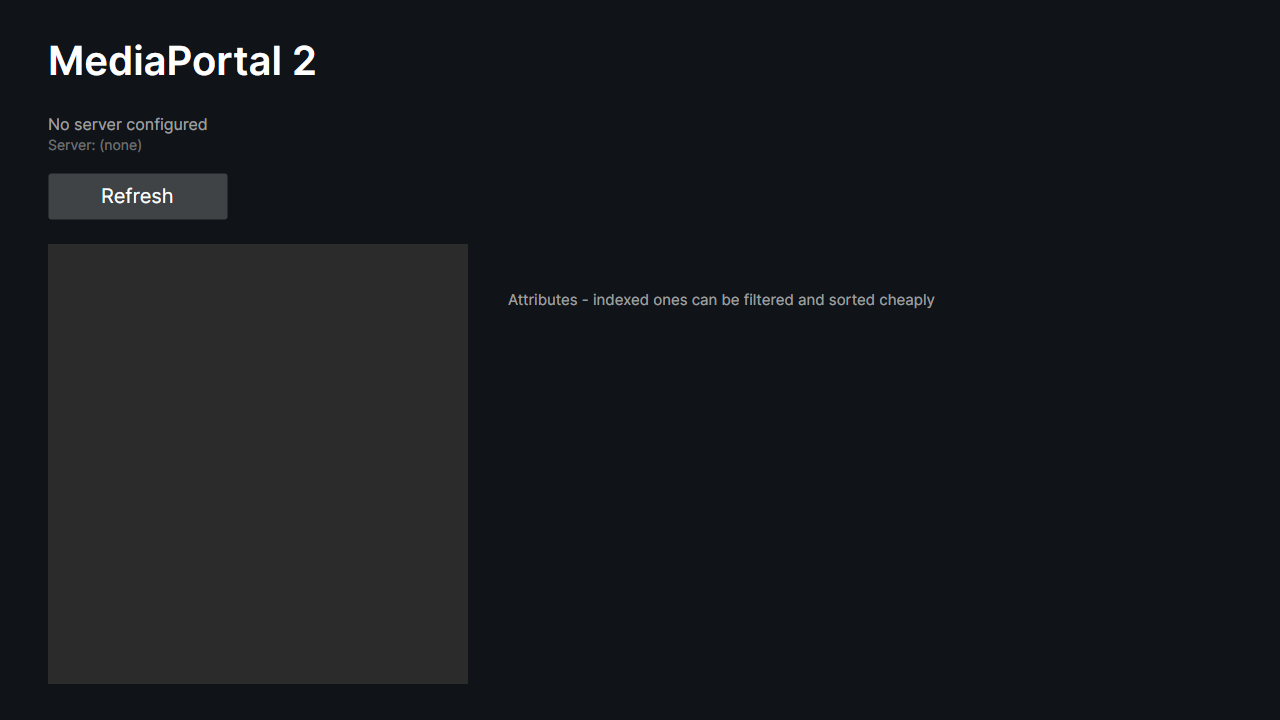
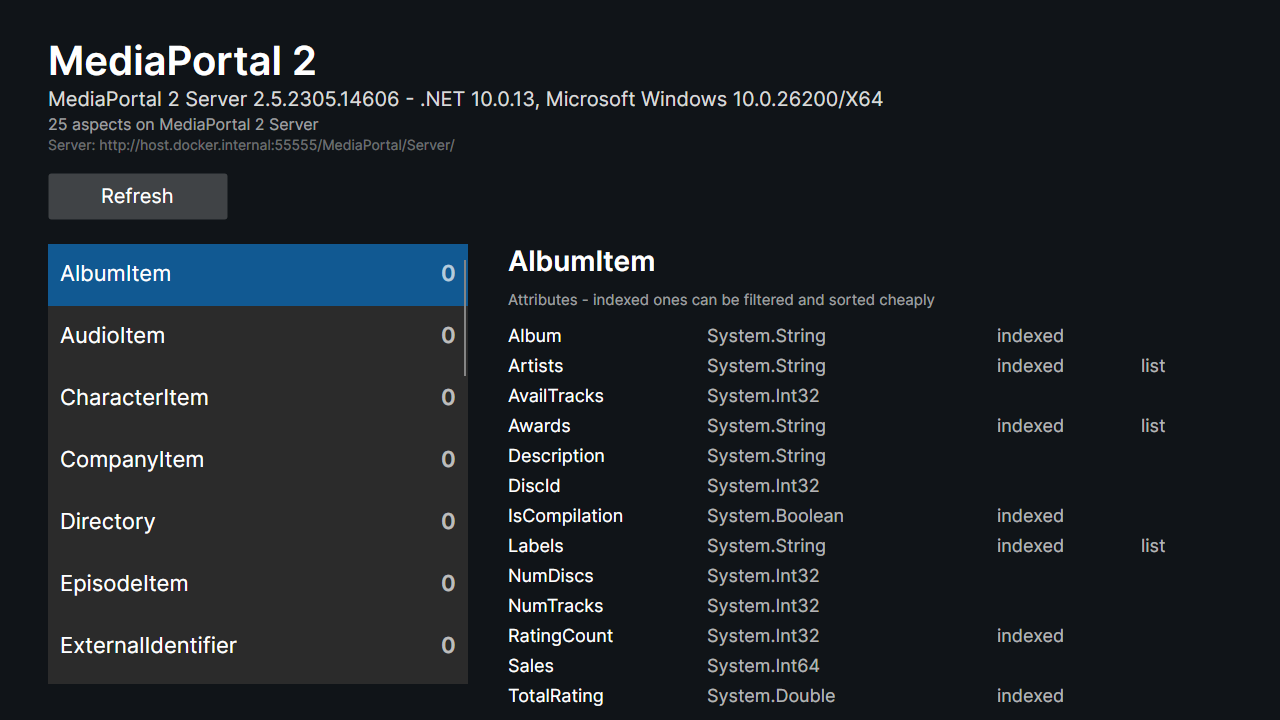
The container's screenshot shows the data, not the empty screen
The committed Linux frame was honest but weak: the image has no server, so `Frontend.RenderProbe` drew the
screen's own "no server" state there. `test-frontend-linux.ps1 -ServeFromHost` now starts
`MP2-Server-Headless` on the host, waits until it really serves aspects, and passes
`MP2_SERVER=http://host.docker.internal:55555/MediaPortal/Server` into the container. Measured from inside
the image, that name resolves and answers `HTTP/1.1 200 OK` with `Server: Microsoft-HTTPAPI/2.0`;
`172.17.0.1` does not connect at all. The frame Linux writes is now the same screen Windows writes:

    content:  populated from http://host.docker.internal:55555/MediaPortal/Server/
    status:   25 aspects on MediaPortal 2 Server, 25 aspect row(s)
    pixels:   921600 (Rgba8888), 3872 distinct colours, 236330 differing from the background,
              66090 high-contrast edges, mean luminance 32

and `FRONTEND LINUX OK: 34 tests ran headless on Linux x86_64, populated from ...` says which frame it is.

Two rules keep the screenshot from becoming decoration. A populated read that produced nothing fails the
run: exit `4` when a server was asked for and no aspects arrived, because an error screen drawn against a
URL proves nothing and exit 0 would leave the gate no wiser. And the `CMD` refuses any run whose output
does not contain `aspects on`, while the host script refuses one that does not report where it read from -
[…]

diff --git a/MediaPortal/Tests/Frontend.RenderProbe/Program.cs b/MediaPortal/Tests/Frontend.RenderProbe/Program.cs
@@ -61,7 +61,7 @@ namespace FrontendProbe
     /// <summary>
     /// Runs the probe. Exit codes: <c>0</c> a frame with real content was rendered and written, <c>1</c> the
     /// render produced nothing worth looking at, <c>2</c> the arguments were wrong, <c>3</c> the image could not
-    /// be written or is not a PNG.
+    /// be written or is not a PNG, <c>4</c> a populated screen was asked for and the server answered no aspects.
     /// </summary>
     public static int Main(string[] args)
     {
@@ -196,12 +196,20 @@ namespace FrontendProbe
 
       if (online)
       {
-        // The window reads the server when it opens - the same command the refresh button runs - so the probe
-        // does not start a second read of its own. Firing one here is what crashed this probe's first run: two
-        // runs were then in flight deliberately, and surviving that is the view model's job, not something to
-        // work around here. Pumping is what a running application does while it waits.
+        // The window reads the server when it opens - the same command the button runs - so the probe does not
+        // start a second read of its own. Firing one here is what crashed this probe's first run: two runs were
+        // then in flight deliberately, and surviving that is the view model's job, not something to work around
+        // here. Pumping is what a running application does while it waits.
+        //
+        // Asking for a populated screen and getting none is a failure, not a note. A frame of an error screen
+        // drawn against a URL is worthless as evidence, and a gate that received exit 0 from it would have no way
+        // of knowing - which is why this returns 1 rather than rendering on.
         if (!PumpUntil(() => viewModel.Aspects.Count > 0, TimeSpan.FromSeconds(30)))
-          Console.WriteLine("note:     the server answered no aspects; the empty or error state is what is rendered.");
+        {
+          Console.WriteLine("FAILED:   a populated screen was asked for ('" + url + "'), but the server answered no"
+              + " aspects. Status says: '" + viewModel.Status + "'.");
+          return 4;
+        }
       }
 
       Console.WriteLine("status:   " + viewModel.Status + ", " + viewModel.Aspects.Count + " aspect row(s)");

diff --git a/docs/multiplatform/ROADMAP.md b/docs/multiplatform/ROADMAP.md
@@ -37,7 +37,7 @@ Verified 2026-10-18 with `build.ps1 -Solution Server,Client -Ratchet`, `tests.ps
 | `CA1416` call sites, Windows vs Linux | **0** on both hosts, floor 0 (was 196 at the retarget) - the 107 that remained were all in `-windows` assemblies that had lost their platform declaration; see "the floor went to zero" below | build log, `warnings.ps1` on both logs |
 | Unit tests, Windows | **5/5 suites, 405 passed**, 0 failed, 0 skipped (Canary.Portable 29, Tests.Server 184, Tests.Client 90, **Tests.Frontend 34**, Setup\Tests 68); a suite whose assembly predates its own sources reports STALE instead of running the old binary | `tests.ps1` |
 | Unit tests, Linux (canary) | 31 executed, 0 failed (1 skips: Windows-only), incl. live IPC round trips and XDG autostart | `test-canary-linux.ps1` |
-| Unit tests, Linux (**front end**) | **34 executed, 0 failed** - the real `HomeWindow.axaml`, Fluent theme, bindings, D-pad handler and HTTP client, headless with no display in the image; the same image then draws the screen through Skia (`1310 distinct colours` of a `1280x720` frame) and writes the PNG out | `test-frontend-linux.ps1` |
+| Unit tests, Linux (**front end**) | **34 executed, 0 failed** - the real `HomeWindow.axaml`, Fluent theme, bindings, D-pad handler and HTTP client, headless with no display in the image; the same image then draws the screen through Skia and writes the PNG out, populated from the host's server through `host.docker.internal` (`3872 distinct colours` of a `1280x720` frame) | `test-frontend-linux.ps1 -ServeFromHost` |
 | Server actually **runs** | **yes on Windows and on Linux** as a headless process. Windows: reaches the Running state, creates the SQLite store, answers UPnP discovery over the network, exits 0 with an error-free log. Linux: reaches the same Running state with 0 `FATAL`, 0 `ERROR` and one `WARN` - the documented note that a container has no FUSE driver. Android is still unmeasured | `run-server-check.ps1`, `test-server-upnp.ps1`, `test-server-run-linux.ps1` |
 | Server **answers HTTP** | **yes on both hosts**, measured with the same probe: `GET /MediaPortal/Server/health` answers `200` with the server's version and the path it was called with - `pathBase=/MediaPortal/Server`, `path=/health` on Windows *and* in the container, because the shared listener now hands requests over in exactly the shape http.sys uses. The gate checks that text, not just the status code | `run-server-check.ps1 -ProbeUrl`, item **l** below |
 | Server **has an HTTP API** | **three endpoints, on both hosts**, in an assembly of its own (`MediaPortal.Server.Api`): `GET /MediaPortal/Server/api/serverinfo`, `GET api/library/aspects` and `GET api/library/count?aspect=…`. They are discovered MVC controllers (the first in this tree) that read MP2's own settings and media-library services on a request thread, and the gates on Windows and in the container require their content, not just a `200`. A library that is absent or still starting is answered with `503` and a reason rather than an empty answer or an internal error. They are unauthenticated because the token endpoint that would authenticate them is still .NET Framework only - which is why they serve schema and no household data | `run-server-check.ps1 -ProbeUrl`, items **m**, **o** and **p** below |
@@ -899,8 +899,8 @@ immediately on `1`, and it also runs the front end against a port nobody listens
 | `tests.ps1` | `Tests.Frontend` added to the default set (see the scoreboard) |
 | `test-frontend-check.ps1` | `FRONTEND CHECK OK - the front end read a running server (attempt 1) and refused a dead one.`, and while that server is still up it renders the populated screen with Skia: `pixels: 921600 (Rgba8888), 2592 distinct colours, 234687 differing from the background, 65736 high-contrast edges, mean luminance 31` |
 | `Frontend.RenderProbe` (Windows, populated) | `PROBE OK: the front end drew 921600 pixels of real content on Microsoft Windows 10.0.26200`, `status: 25 aspects on MediaPortal 2 Server, 25 aspect row(s)`, `home-windows.png` 107 757 bytes |
-| `Frontend.RenderProbe` (Linux container, offline) | `PROBE OK: the front end drew 921600 pixels of real content on Ubuntu 24.04.5 LTS`, `home-linux.png` 20 030 bytes - the container has no server, so what it proves is the render path and the font path, not the data path |
-| `test-frontend-linux.ps1` | `Passed! - Failed: 0, Passed: 34, Skipped: 0, Total: 34, Duration: 2 s`, then `FRONTEND LINUX OK: 34 tests ran headless on Linux x86_64, screenshot in /out/home-linux.png` - on `Linux 6.6.87.2-microsoft-standard-WSL2 x86_64, dotnet 10.0.402`, with no display in the image and no `-p:EnableWindowsTargeting` passed |
+| `Frontend.RenderProbe` (Linux container, `-ServeFromHost`) | `PROBE OK: the front end drew 921600 pixels of real content on Ubuntu 24.04.5 LTS`, `status: 25 aspects on MediaPortal 2 Server, 25 aspect row(s)`, `3872 distinct colours`, `home-linux.png` 119 642 bytes - the container read the Windows host's server through `host.docker.internal`, measured answering `HTTP/1.1 200 OK` / `Server: Microsoft-HTTPAPI/2.0` from inside the image |
+| `test-frontend-linux.ps1` | `Passed! - Failed: 0, Passed: 34, Skipped: 0, Total: 34, Duration: 2 s`, then `FRONTEND LINUX OK: 34 tests ran headless on Linux x86_64, populated from http://host.docker.internal:55555/MediaPortal/Server screenshot in /out/home-linux.png` - on `Linux 6.6.87.2-microsoft-standard-WSL2 x86_64, dotnet 10.0.402`, with no display in the image and no `-p:EnableWindowsTargeting` passed |
 
 Two things about that gate are worth stating because they were not obvious when the script was written. It asserts
 the *shape* of the answer (`pathBase=/MediaPortal/Server`, `library:`, `aspects`) and never a count: this run
@@ -939,13 +939,23 @@ frame:    1280, 720 at 96, 96, implementation Avalonia.Media.Imaging.WriteableBi
 pixels:   921600 (Rgba8888), 2592 distinct colours, 234687 differing from the background, 65736 high-contrast edges, mean luminance 31
 ```
 
-It runs in two gates. `test-frontend-check.ps1` runs it **while its own server is still up**, so the frame is the
-populated screen - `25 aspects`, 2592 distinct colours, 65 736 high-contrast edges, i.e. rows of text, not a
-gradient. `Dockerfile.frontend` runs it offline (the container has no server) and mounts the result back onto the
-host, which is what produced `docs\multiplatform\screenshots\home-linux-skia.png`. Both frames are committed next
-to this document: `home-windows-skia.png` (populated, 107 757 bytes) and `home-linux-skia.png` (the offline screen,
-20 030 bytes). Whether the screen looks *right* is a different question and stays with the user; the probe's job is
-only to prove that real pixels come out, on both platforms, unattended.
+It runs in two gates, and both render the *populated* screen. `test-frontend-check.ps1` runs it **while its own
+server is still up**: `25 aspects`, 2592 distinct colours, 65 736 high-contrast edges, i.e. rows of text, not a
+gradient. `test-frontend-linux.ps1 -ServeFromHost` starts `MP2-Server-Headless` on the Windows host, waits until it
+really serves aspects, and tells the container `MP2_SERVER=http://host.docker.internal:55555/MediaPortal/Server`;
+measured from inside the image, `host.docker.internal` resolves and the server answers `HTTP/1.1 200 OK` with
+`Server: Microsoft-HTTPAPI/2.0`, while `172.17.0.1` does not connect at all. The frame the container writes is then
+the same screen, drawn by Linux: `25 aspects on MediaPortal 2 Server`, **3872 distinct colours**, 119 642 bytes of
+PNG. Both frames are committed next to this document - `home-windows-skia.png` (107 757 bytes) and
+`home-linux-skia.png` (119 642 bytes). Without `-ServeFromHost` the image still renders, and the OK line then says
+plainly that the frame is the screen's own "no server" state.
+
+Whether the screen looks *right* is a different question and stays with the user. The probe's job is only to prove
+that real pixels come out, on both platforms, unattended - and that it cannot lie, `--server`/`MP2_SERVER` now
+exits **4** when a populated screen was asked for and the server answered no aspects: an error screen drawn against
+a URL is worthless as evidence, and exit 0 for it would leave a gate no wiser. The image additionally refuses a run
+whose output never contains `aspects on`, so neither the container nor the host script can report the offline or
+the error picture as the data picture.
 
 What it found the first time it was run is the reason this section exists. The window's `Opened` handler runs the
 same command the refresh button runs, so the probe's render overlapped that first read - and the process died with
@@ -995,12 +1005,13 @@ rather than an intention - the gated build, the suite on Windows, the front end 
 server's screen rendered through Skia, and the suite plus a render in a Linux container. What is still ahead, in the
 order that keeps the risk where it can be seen:
 
-1. Pixels, not only layout - **done for "does it draw", open for "does it look right"**. `Frontend.RenderProbe`
-   renders through Skia and both frames are committed (`docs\multiplatform\screenshots\`), so the screenshot the
-   phase gate asks for by name exists; item **q** records what it found. Two gaps are honest to state: the
-   container's frame is the *offline* screen, because there is no server inside the image (pointing the probe at a
-   server on the host from inside the container is the next step for that frame), and nobody has judged whether the
-   screen looks good - that is the taste review reserved for the user. Android still has no measurement at all.
+1. Pixels, not only layout - **done, on both platforms, with data on screen**. `Frontend.RenderProbe` renders the
+   real window through Skia; the Windows frame comes from the server the check gate starts, and the container's
+   frame comes from the host's server through `host.docker.internal` (`-ServeFromHost`), so both committed frames
+   in `docs\multiplatform\screenshots\` show 25 aspect rows. The phase gate's named screenshot exists and is
+   populated; item **q** records what the render found. What is left of this item is not measurable here: whether
+   the screen looks *right* (the taste review reserved for the user), and Android, which still has no measurement
+   at all - including no Skia render, because nothing has drawn the front end on that platform yet.
 2. The OAuth token endpoint on .NET. Every endpoint that carries user data, and therefore every screen worth
    building next (browse, playlists, settings), is blocked on it - see item **m**.
 3. Bind the platform-neutral pieces of the old client's view models. Anything that imported

diff --git a/scripts/ci/README.md b/scripts/ci/README.md
@@ -22,7 +22,7 @@ does *not*, because those differences are how CI surprises happen.
 | `test-server-linux.ps1` | Runs that image (see "Compiling on Linux" below for the package-cache it needs). |
 | `test-frontend-check.ps1` | Starts the real server, runs the built front end with `--check` against it, then against a port nobody listens on: exit 0 plus the server's own answers, then exit 1 plus a readable message. While that server is up it also renders the screen with `Frontend.RenderProbe` (`-SkipRender`, `-RenderDir`), and it refuses to execute a DLL older than its own sources. |
 | `Dockerfile.frontend` | Linux image that builds `MP2-Frontend.sln`, runs `Tests.Frontend` headless and renders the screen with `Frontend.RenderProbe` on Skia - no display, no `-windows` target, and deliberately no `EnableWindowsTargeting`. |
-| `test-frontend-linux.ps1` | Runs that image (same package-cache requirement). |
+| `test-frontend-linux.ps1` | Runs that image (same package-cache requirement). `-ServeFromHost` starts the server on this machine and points the container at it through `host.docker.internal:55555`, so the screenshot the run produces is the populated screen. |
 | `Dockerfile.drawing`, `drawing-probe/` | Not a gate: measures which half of `System.Drawing` works on Linux. Read it before changing what `spine.ps1` counts. |
 
 ## The gate, in the order that fails fastest
@@ -1631,7 +1631,8 @@ captures the frame, counts its pixels and writes a PNG:
 - `--server` renders the populated screen; without it (and without `MP2_SERVER`) the screen's own "no server"
   state is rendered, which is a real state and gets measured too.
 - `--width`/`--height` default to 1280x720, and anything below 100x100 is refused as an argument error (exit 2).
-- Exit 0 drew something, 1 the frame is flat or the app would not set up, 2 usage, 3 the write failed.
+- Exit 0 drew something, 1 the frame is flat or the app would not set up, 2 usage, 3 the write failed, 4 a
+  populated screen was asked for and the server answered no aspects (an error screen against a URL proves nothing).
 
 What it prints is what a gate judges, because a gate cannot look at a picture:
 
@@ -1640,11 +1641,18 @@ What it prints is what a gate judges, because a gate cannot look at a picture:
 
 Flat frames fail: under 16 distinct colours, or under 1% of pixels differing from the dominant background colour.
 
-It runs from two gates. `test-frontend-check.ps1` runs it **while its server is still up** (item 6 of that script,
-`-SkipRender` to leave it out, `-RenderDir` to move the output), so `build\artifacts\frontend-render\home-windows.png`
-is the populated screen: `status: 25 aspects on MediaPortal 2 Server, 25 aspect row(s)`. `Dockerfile.frontend` runs
-it offline into `/out`, which `test-frontend-linux.ps1` mounts at `build\artifacts\frontend-render` and requires to
-contain `home-linux.png`. The two frames are committed under `docs\multiplatform\screenshots\`.
+It runs from two gates, and both show real data. `test-frontend-check.ps1` runs it **while its server is still up**
+(item 6 of that script, `-SkipRender` to leave it out, `-RenderDir` to move the output), so
+`build\artifacts\frontend-render\home-windows.png` is the populated screen:
+`status: 25 aspects on MediaPortal 2 Server, 25 aspect row(s)`. `test-frontend-linux.ps1 -ServeFromHost` starts
+`MP2-Server-Headless` on this machine, waits until it really serves aspects (measured: a just-started server answers
+`200` with an *empty* list, and 25 aspects about a second later), and passes `MP2_SERVER` to the container as
+`http://host.docker.internal:55555/MediaPortal/Server` - measured from inside the image to resolve and answer
+`HTTP/1.1 200 OK` / `Server: Microsoft-HTTPAPI/2.0`, while `172.17.0.1` does not connect at all. The frame the
+container writes is then the populated screen too (`3872 distinct colours`, 119 642 bytes), and the image refuses to
+go green unless its output says `aspects on`, so the screenshot cannot silently fall back to the offline or the
+error picture. Without `-ServeFromHost` the run still renders, and the OK line says the frame is the screen's own
+"no server" state. Both frames are committed under `docs\multiplatform\screenshots\`.
 
 Three things came out of adding it, all of them measurements rather than opinions:
 
@@ -1677,7 +1685,8 @@ then runs `Tests.Frontend`, i.e. it builds the real `HomeWindow.axaml`, loads th
 the Inter font, drives the D-pad handler, and calls the real `MediaPortal.Server.Api` controllers over a
 Kestrel host - inside a container, under a user with no display, on a machine that has never seen
 Windows. Measured: `Passed! - Failed: 0, Passed: 34, Skipped: 0, Total: 34, Duration: 2 s`, then
-`FRONTEND LINUX OK: 34 tests ran headless on Linux x86_64, screenshot in /out/home-linux.png` on
+`FRONTEND LINUX OK: 34 tests ran headless on Linux x86_64, populated from
+http://host.docker.internal:55555/MediaPortal/Server screenshot in /out/home-linux.png` on
 `Linux 6.6.87.2-microsoft-standard-WSL2 x86_64, dotnet 10.0.402`.
 
 Two properties of that image are the gate, not the packaging:
@@ -1690,6 +1699,12 @@ Two properties of that image are the gate, not the packaging:
   exits 1 if it is not at least 1, because `dotnet test` reports "no tests were discovered" and exits 0.
   Without that line this image would go green the moment someone broke the test project - the same class
   of false green as a stale test assembly, see "A green test suite can be a stale one".
+- **`-ServeFromHost` waits for aspects, not for a port.** `/health` answers as soon as the listener is up, and a
+  server that has just started answers `api/library/aspects` with `200` and an empty list before it answers with 25
+  aspects a second later; waiting for the port or for a `200` would let the probe render an empty screen and make
+  the verdict a race. The URL is built by concatenation, not `Join-Path`, which inserts a backslash on Windows -
+  measured, that produced 90 seconds of "the server never served aspects" for a server that was serving them the
+  whole time.
 
 What green here does *not* mean: there is still no X server in the image and none is installed, so nothing has
 appeared on a Linux desktop. Since the render probe runs in this image too, the Skia backend, the native
